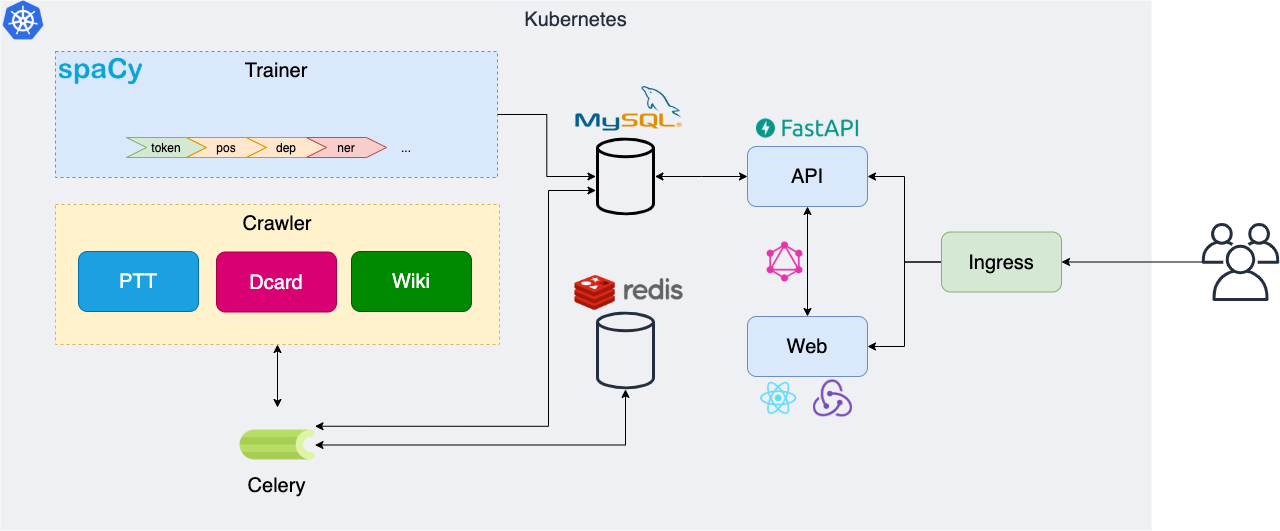
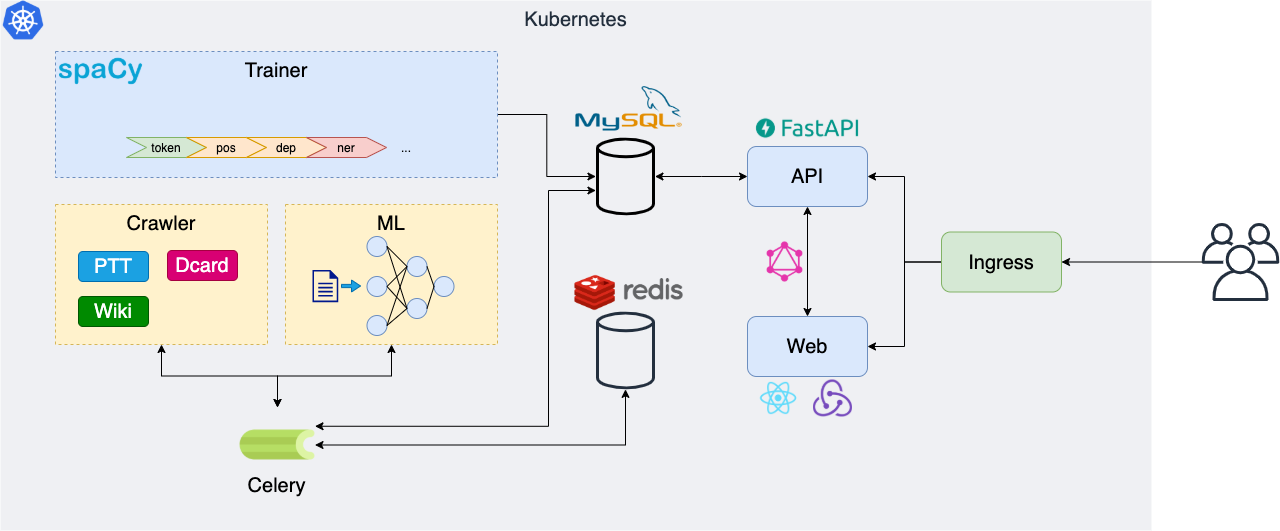
Add ml celery module

Changed region(s): [[0.0625, 0.3917, 0.375, 0.6629], [0.125, 0.693, 0.3125, 0.7232], [0.125, 0.6328, 0.1562, 0.6629]]

diff --git a/eyes/celery/ml/tasks.py b/eyes/celery/ml/tasks.py
@@ -1,0 +1,103 @@
+'''Eyes celery ml tasks
+'''
+from datetime import datetime
+from itertools import zip_longest
+from typing import Dict
+
+import spacy
+import sqlalchemy as sa
+from spacy.tokens import Doc
+from sqlalchemy.orm import scoped_session, sessionmaker
+
+from celery import Task
+from celery.utils.log import get_task_logger
+from eyes.celery import app
+from eyes.config import MySQLConfig, SpacyConfig
+from eyes.db.ptt import PttPost
+from eyes.db.spacy import SpacyPttPost
+from eyes.exception import PostNotExistsError
+from eyes.ml.spacy import transform_ptt_post_to_spacy
+
+logger = get_task_logger(__name__)
+
+
+class MlTask(Task):
+    '''Ml Base Task
+    '''
+    _sess = None
+    _nlp = None
+
+    @property
+    def nlp(self):
+        '''Returns spacy language model
+        '''
+        if self._nlp is None:
+            config = SpacyConfig()
+            nlp = spacy.load(config.name)
+            self._nlp = nlp
+
+        return self._nlp
+
+    @property
+    def sess(self):
+        '''Returns SQLAlchemy Session
+        '''
+        if self._sess is None:
+            db_config = MySQLConfig()
+            engine = sa.create_engine(
+                f'mysql://{db_config.user}:{db_config.password}@{db_config.host}:\
+                    {db_config.port}/{db_config.database}?charset=utf8mb4')
+            session_factory = sessionmaker(engine)
+            self._sess = scoped_session(session_factory)()
+
+        return self._sess
+
+
+@app.task(
+    bind=True,
+    base=MlTask,
+)
+def transform_ptt_post_to_spacy_post(
+    self,
+    post_id: str,
+) -> Dict:
+    '''Transform ptt post to spacy post
+
+    Args:
+        post_id (str): ptt post id
+
+    Returns:
+        Dict: transformed post
+    '''
+    post = self.sess.query(PttPost).filter(PttPost.id == post_id).first()
+    if not post:
+        raise PostNotExistsError(f"Post: {post_id} is not exist")
+    spacy_post = transform_ptt_post_to_spacy(post, self.nlp)
+    exist_row = self.sess.query(SpacyPttPost).filter(
+        SpacyPttPost.id == post_id).first()
+    if exist_row:
+        exist_row.title = spacy_post.title
+        exist_row.content = spacy_post.content
+        exist_row.updated_at = datetime.utcnow()
+        new_comments = []
+        for exist_comment, comment in zip_longest(
+                sorted(exist_row.comments, key=lambda x: x.comment_id),
+                sorted(spacy_post.comments, key=lambda x: x.comment_id),
+        ):
+            if exist_comment:
+                exist_comment.content = comment.content
+                exist_comment.updated_at = datetime.utcnow()
+            else:
+                new_comments.append(comment.to_orm())
+        exist_row.comments.extend(new_comments)
+        self.sess.merge(exist_row)
+        self.sess.commit()
+    else:
+        row = spacy_post.to_orm()
+        self.sess.add(row)
+        self.sess.commit()
+
+    return {
+        'id': spacy_post.id,
+        'title': Doc(self.nlp.vocab).from_bytes(spacy_post.title).text,
+    }

diff --git a/tests/integration/test_celery.py b/tests/integration/test_celery.py
@@ -13,8 +13,10 @@ from eyes.celery.crawler.tasks import (
     crawl_ptt_post,
     crawl_wiki_entity,
 )
+from eyes.celery.ml.tasks import transform_ptt_post_to_spacy_post
 from eyes.celery.stats.tasks import ptt_monthly_summary
 from eyes.config import MySQLConfig
+from eyes.db.ptt import PttPost
 
 
 class TestCrawler:
@@ -141,3 +143,31 @@ class TestStats:
 
         assert isinstance(stat['total_posts'], int)
         assert isinstance(stat['total_comments'], int)
+
+
+class TestMl:
+    '''Ml module integration test cases
+    '''
+    @pytest.fixture
+    def session(self):
+        db_config = MySQLConfig()
+        engine = sa.create_engine(
+            f'mysql://{db_config.user}:{db_config.password}@{db_config.host}:{db_config.port}/{db_config.database}?charset=utf8mb4'
+        )
+        session_factory = sessionmaker(engine)
+        session = scoped_session(session_factory)()
+        yield session
+        session.close()
+
+    def test_celery_transform_ptt_post_to_spacy(
+        self,
+        session: Session,
+    ):
+        '''Test celery transform ptt post to spacy
+        '''
+        post = session.query(PttPost).first()
+        res = transform_ptt_post_to_spacy_post.delay(post.id)
+
+        post_transformed = res.get()
+
+        print(post_transformed)

diff --git a/eyes/cmd/db.py b/eyes/cmd/db.py
@@ -7,7 +7,7 @@ import sqlalchemy as sa
 from rich.logging import RichHandler
 from sqlalchemy_utils.functions import create_database, database_exists
 
-from eyes.db import Base
+from eyes.db import Base, dcard, ptt, spacy, stats, wiki
 
 logger = logging.getLogger(__name__)
 logger.setLevel(logging.INFO)

diff --git a/eyes/config.py b/eyes/config.py
@@ -47,6 +47,7 @@ class CeleryConfig(BaseSettings):
     installed_apps: typing.List = [
         'eyes.celery.crawler.tasks',
         'eyes.celery.stats.tasks',
+        'eyes.celery.ml.tasks',
     ]
 
     class Config:

diff --git a/eyes/exception.py b/eyes/exception.py
@@ -1,3 +1,8 @@
 class InvalidFormatError(Exception):
     '''Crawler format invalid exception
     '''
+
+
+class PostNotExistsError(Exception):
+    '''Post not exists exception
+    '''

diff --git a/README.md b/README.md
@@ -37,6 +37,10 @@ eyes system architecture
 - React + Redux-Saga
 - Tailwind CSS
 
+### ML
+
+- spaCy
+
 ## License
 
 [MIT](./LICENSE)
